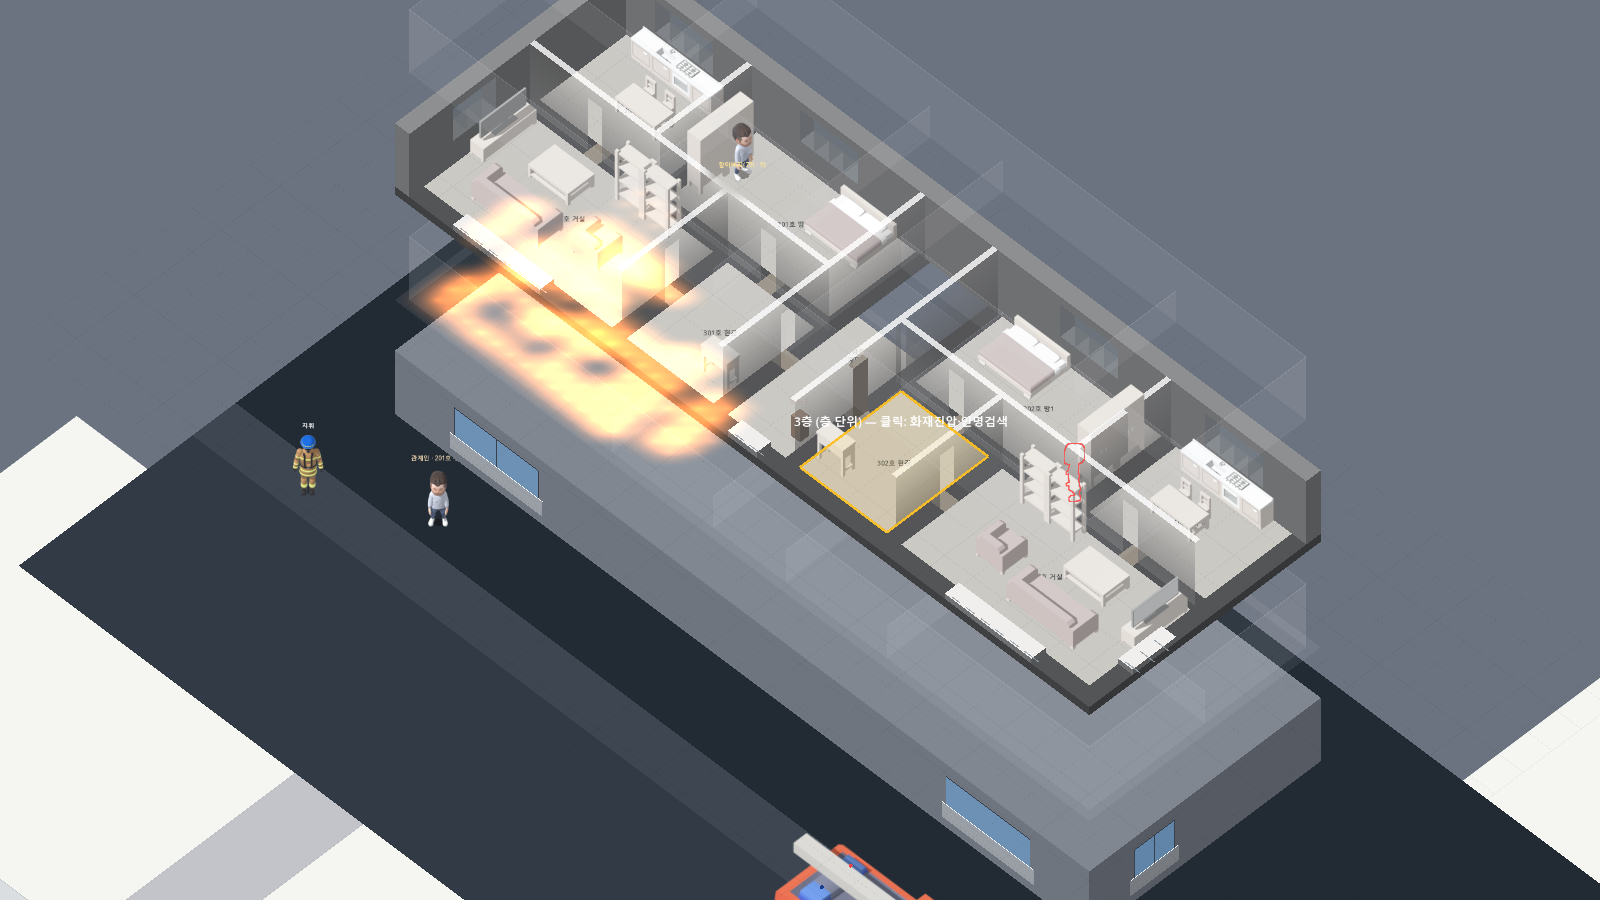
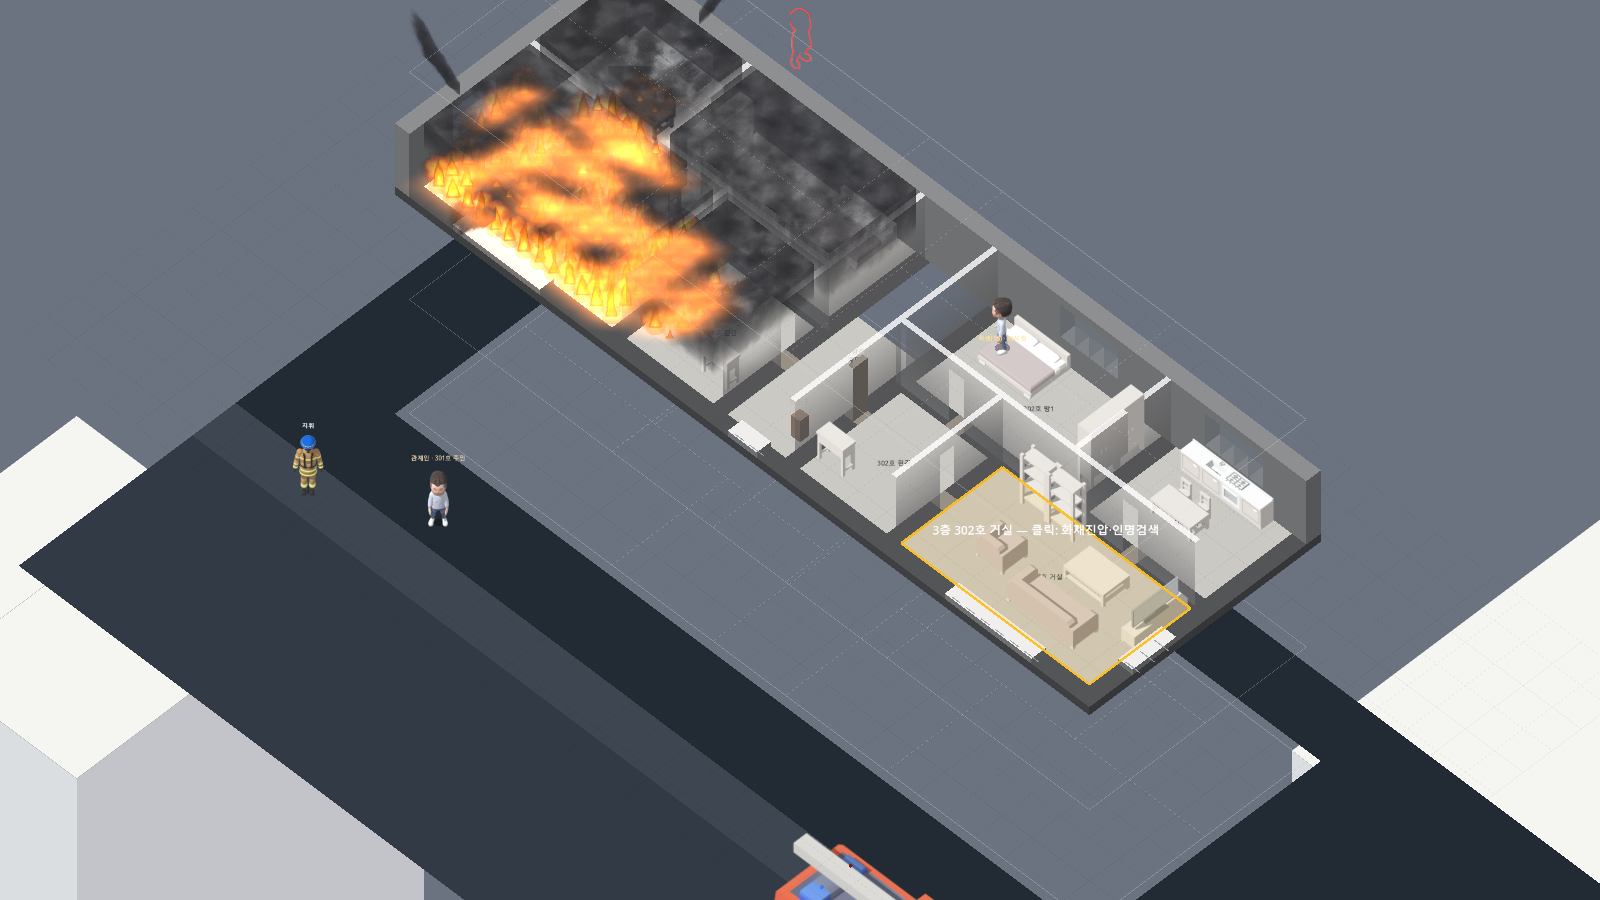
F01: 다른 층은 면 칠 없이 평면도 선만 (바깥벽 실선·실내 벽 점선) — 연기와 겹쳐 진해지지 않게

diff --git a/docs/decisions.md b/docs/decisions.md
@@ -118,3 +118,4 @@
 | 2026-11-12 | F01 | 바깥 땅 사람·얇은 테두리 | 다른 층으로 보이는 1층의 바깥 땅(마당·도로)에 있는 대원·지휘관·관계인·발견한 요구조자는 차량처럼 원래대로 그림(위층 건물에 화면에서 가려지는 자리만 테두리 추가). 사람 테두리 두께 3px → 1.5px(ghost_outline_px), 강조 2배 → 1.5배 | 사용자 결정 — 바깥은 어느 층을 보든 그대로 보여야 하고, 굵은 테두리는 어색함 |
 | 2026-11-12 | F01 | 다른 층 사람 표시 | 다른 층 대원·발견한 요구조자는 테두리 없이 노랑·빨강 한 색 흐린 덩어리(45%) + 머리 위 ▲▼층 표(조마다 하나, 요구조자마다 하나). 같은 층에서 연기·건물에 가려진 사람은 원래 색 25% + 얇은 실선 테두리 그대로 | 사용자 결정 — 둘이 같은 그림이라 헷갈림. 점선(제안)·점선+층 표(추천) 대신 흐린 덩어리+층 표를 고름 (XCOM 다른 높이 표시) |
 | 2026-11-12 | F01 | 다른 층 사람 표시 (고침) | 다른 층 대원·발견한 요구조자는 얇은 테두리(노랑·빨강)만, 안쪽은 완전 투명, 층 표 없음 (ghost_other_fill 0). 같은 층에서 연기에 가려진 사람은 원래 색 25% + 테두리 — 안쪽이 비었는지로 구분 | 사용자 결정 — 한 색 덩어리·층 표는 오히려 복잡함 |
+| 2026-11-12 | F01 | 다른 층은 평면도 선만 | 다른 층(바로 위·아래, 먼 아래층 모두)은 면 칠 없이 그 층 바닥 높이의 평면도 선만: 바깥벽(건물 윤곽) 실선, 확인된 실내 벽 점선, 진하기 0.3. 바닥 8% 칠·벽 면·먼 아래층 외관 덩어리는 지움 | 사용자 결정(항상 선만 — 추천) — 화재 시 지금 층 연기와 다른 층 면 칠이 겹쳐 진해져 구조가 안 보였음. 연기 찰 때만 바꾸면 깜빡여 헷갈림 |

diff --git a/docs/progress.md b/docs/progress.md
@@ -44,3 +44,4 @@
 | 2026-11-12 | F01 다른 층 사람 흐린 덩어리·층 표 | shaders/ghost_outline(flat_fill), scripts/ui/building/floor_layer(재질 둘로 나눔·_ghost_badges·_draw_ghost_badges·_badge)·view_params, data/ui/view_params(ghost_flat_alpha), tests/test_cutaway | 기본 확대에서 층 표 글씨가 작음(다른 이름표와 같은 12px) — 필요하면 키움. 다음: 튜토리얼 단계 정비 |
 | 2026-11-12 | F01 다른 층 사람 테두리만 | shaders/ghost_outline(덩어리 모드 지움), scripts/ui/building/floor_layer(층 표 지움)·view_params, data/ui/view_params(ghost_other_fill, ghost_flat_alpha 지움), tests/test_cutaway | 다음: 튜토리얼 단계 정비 |
 | 2026-11-12 | F01 테두리 사람 자세 | scripts/ui/building/floor_layer(_unit_pose·_victim_pose로 실제 그림과 테두리가 같은 동작·방향·장, 다른 층 테두리는 매 프레임 다시 그림) | 고친 결함: 다른 층 테두리가 방향 고정·걷기/서기만·틱마다(초당 5번) 끊김. 헬멧 색은 테두리에 넘기지 않음(안쪽 투명이라 안 보임) |
+| 2026-11-12 | F01 다른 층 평면도 선만 | scripts/ui/building/floor_layer(_draw_adjacent 선만, _draw_far_block 지움)·view_params, data/ui/view_params(ghost_line_alpha 0.3·ghost_dash_px, adjacent_alpha·ghost_inner_wall_m 지움), tests(test_cutaway, _shot_house tutorial 인자) | 다음: 튜토리얼 단계 정비 |
